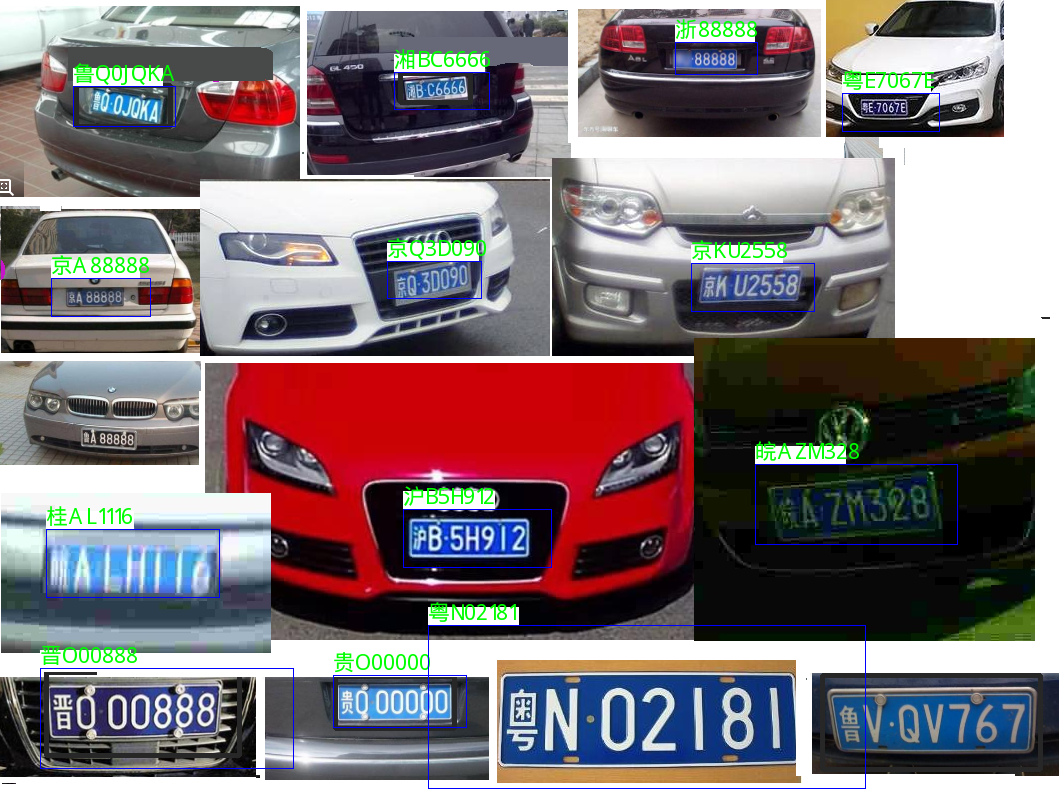
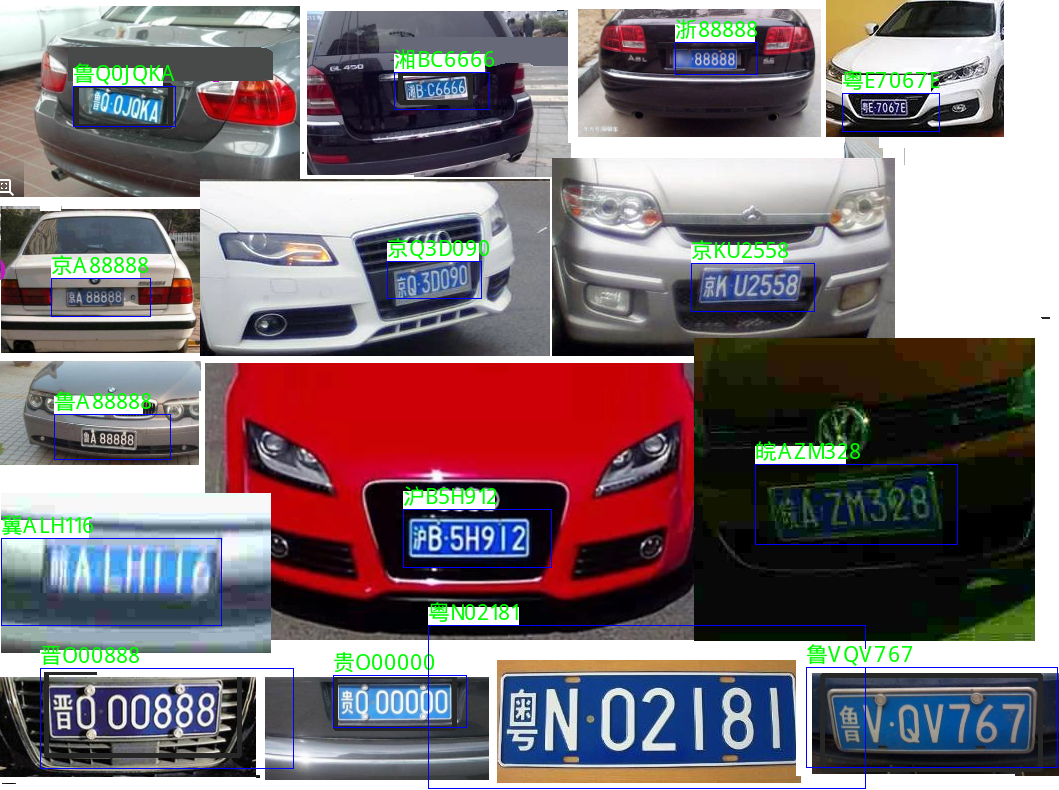
adjust lffd threshold for prob and nms

diff --git a/src/detector/lffd.h b/src/detector/lffd.h
@@ -19,7 +19,7 @@ public:
 	~LFFD();
 
 	int detect(ncnn::Mat& img, std::vector<pr::ObjectBox>& face_lis,int resize_h,int resize_w,
-		float score_threshold = 0.2, float nms_threshold = 0.4, int top_k = 10000,
+		float score_threshold = 0.01, float nms_threshold = 0.5, int top_k = 10000,
 		std::vector<int> skip_scale_branch_list = {});
 
 private:
